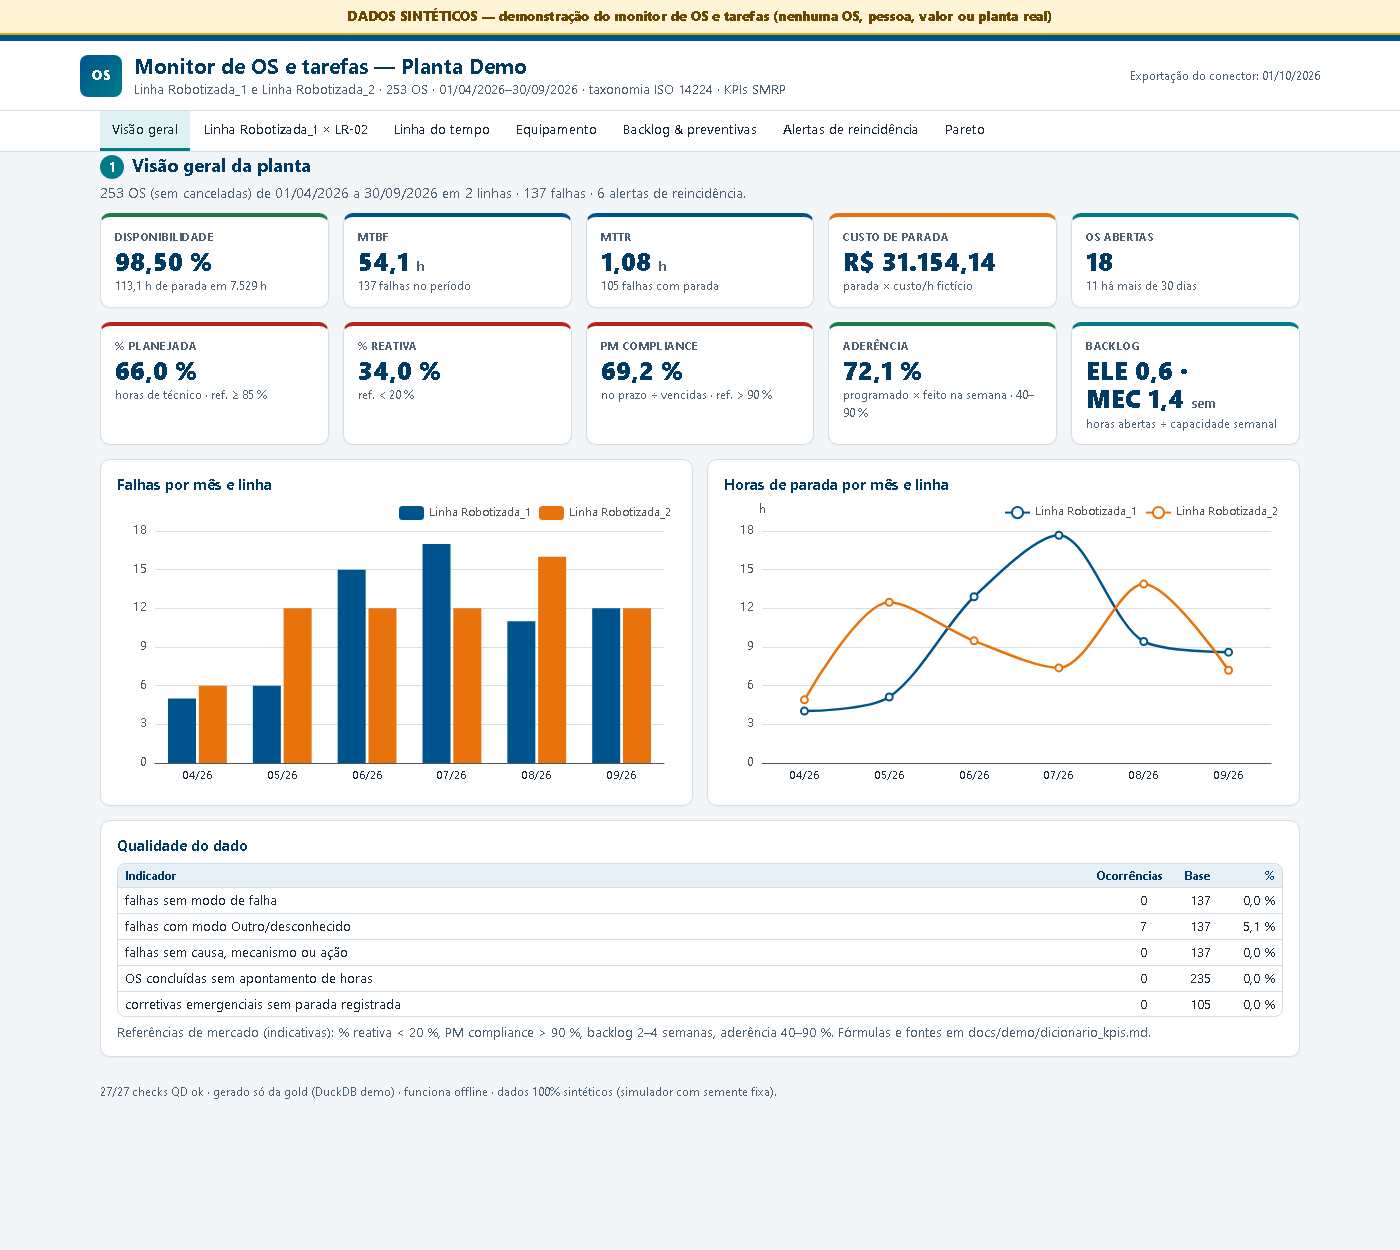
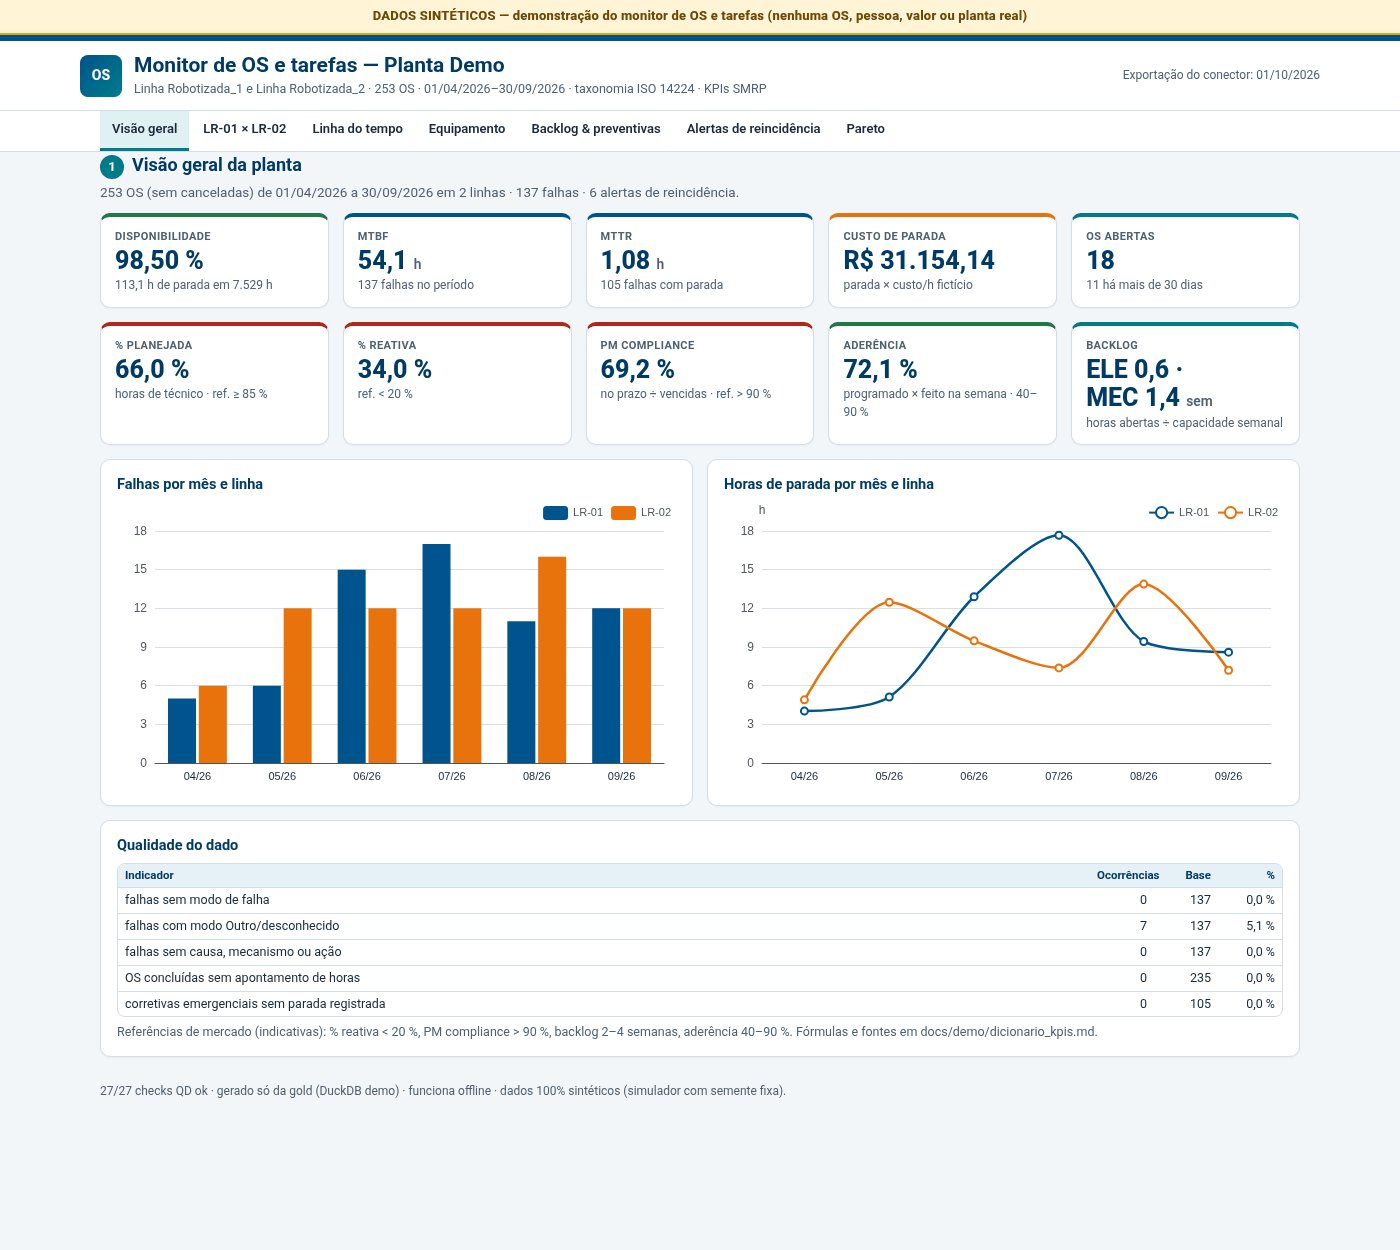
refactor: IGMI 0.3.3.1 - README, rotulos da comparacao e nomenclatura publica
Atualiza a documentacao para a versao corrente, unifica os rotulos da aba de comparacao em LR-01/LR-02 e substitui identificadores herdados do nome antigo por nomes do IGMI.

diff --git a/pmb/demo_template.html b/pmb/demo_template.html
@@ -120,7 +120,7 @@ footer{color:var(--muted);font-size:12px;padding:6px 0 28px}
 </section>
 
 <section id="linha" aria-labelledby="h-linha">
-  <h2 id="h-linha"><span class="n">2</span>Linha Robotizada_1 × Linha Robotizada_2</h2>
+  <h2 id="h-linha"><span class="n">2</span>LR-01 × LR-02</h2>
   <p class="lead">Mesmas fórmulas nas duas linhas; a planta é a soma das linhas (check QD19).</p>
   <div class="grid two">
     <div class="card"><div class="tw"><table id="tb-linhas" class="rt"></table></div></div>
@@ -206,7 +206,7 @@ function tbl(id, heads, rows){
 const kpiHtml = k => k.map(x=>'<div class="card kpi '+(x[3]||'')+'"><div class="lb">'+x[0]+'</div><div class="v">'+x[1]+'</div><div class="nt">'+x[2]+'</div></div>').join('');
 const meses = [...new Set(D.mensal.map(r=>r.mes))];
 const mesLab = m => m.slice(5)+'/'+m.slice(2,4);
-const serie = (campo, mult, tipo) => ['LR-01','LR-02'].map(l=>({name:EXIBIR[l],type:tipo||'line',barMaxWidth:28,smooth:tipo?false:.3,symbolSize:7,itemStyle:{color:LC[l]},lineStyle:{width:2.5},
+const serie = (campo, mult, tipo) => ['LR-01','LR-02'].map(l=>({name:l,type:tipo||'line',barMaxWidth:28,smooth:tipo?false:.3,symbolSize:7,itemStyle:{color:LC[l]},lineStyle:{width:2.5},
   data:meses.map(m=>{const r=D.mensal.find(x=>x.mes===m&&x.linha_id===l); return r&&r[campo]!=null?+(r[campo]*mult).toFixed(2):null;})}));
 const base = id => ({aria:{enabled:true},animation:false,tooltip:{trigger:'axis',confine:true},legend:{top:0,right:0,textStyle:{fontSize:11}},
   grid:narrow(id)?{left:38,right:12,top:30,bottom:28}:{left:50,right:20,top:32,bottom:30}});
@@ -239,7 +239,7 @@ function linha(){
   const ks=[['os_total','OS no período',v=>v],['falhas','Falhas',v=>v],['parada_h','Parada (h)',v=>nf1.format(v)],['disponibilidade','Disponibilidade',v=>fp(v,2)],
     ['mtbf_h','MTBF (h)',v=>nf1.format(v)],['mttr_h','MTTR (h)',v=>nf2.format(v)],['pct_planejada','% planejada',fp],['pct_reativa','% reativa',fp],
     ['pm_compliance','PM compliance',fp],['aderencia','Aderência',fp],['custo_parada','Custo de parada',fr],['os_abertas','OS abertas',v=>v],['os_envelhecidas','OS envelhecidas',v=>v]];
-  tbl('tb-linhas',[['Indicador',''],[EXIBIR['LR-01'],'c-b','num'],[EXIBIR['LR-02'],'c-b','num'],['Planta','c-b','num']],ks.map(([k,t,f])=>[t,f(L['LR-01'][k]),f(L['LR-02'][k]),f(L.PLANTA[k])]));
+  tbl('tb-linhas',[['Indicador',''],['LR-01','c-b','num'],['LR-02','c-b','num'],['Planta','c-b','num']],ks.map(([k,t,f])=>[t,f(L['LR-01'][k]),f(L['LR-02'][k]),f(L.PLANTA[k])]));
   const r=Object.assign(base('ch-reativa'),{xAxis:eixoMes,yAxis:{type:'value',max:100,axisLabel:{formatter:'{value}%'}},series:serie('pct_reativa',100)});
   r.series[0].markLine=metaLine(20,'ref. 20 %'); chart('ch-reativa').setOption(r,true);
   chart('ch-disp').setOption(Object.assign(base('ch-disp'),{xAxis:eixoMes,yAxis:{type:'value',min:96,max:100,axisLabel:{formatter:'{value}%'}},series:serie('disponibilidade',100)}),true);
@@ -287,7 +287,7 @@ function equipamento(){
   chart('ch-eq-mtbf').setOption({aria:{enabled:true},animation:false,legend:{top:0,right:0},grid:{left:48,right:24,top:30,bottom:36},
     tooltip:{trigger:'item',confine:true,formatter:p=>esc(p.data[2])+'<br>MTBF '+nf1.format(p.data[0])+' h · MTTR '+nf2.format(p.data[1])+' h'},
     xAxis:{type:'log',name:'MTBF h (log)',nameLocation:'middle',nameGap:24},yAxis:{type:'value',name:'MTTR h'},
-    series:['LR-01','LR-02'].map(l=>({name:EXIBIR[l],type:'scatter',symbolSize:13,itemStyle:{color:LC[l],borderColor:'#fff',borderWidth:1},data:eq.filter(e=>e.linha_id===l&&e.mtbf_h!=null).map(e=>[e.mtbf_h,e.mttr_h,e.nome])}))},true);
+    series:['LR-01','LR-02'].map(l=>({name:l,type:'scatter',symbolSize:13,itemStyle:{color:LC[l],borderColor:'#fff',borderWidth:1},data:eq.filter(e=>e.linha_id===l&&e.mtbf_h!=null).map(e=>[e.mtbf_h,e.mttr_h,e.nome])}))},true);
   tbl('tb-equip',[['Equipamento',''],['Linha','c-ln'],['Crit.','c-ln'],['Falhas','c-n','num'],['Parada (h)','c-n','num'],['MTBF (h)','c-h','num'],['MTTR (h)','c-n','num'],['Disponib.','c-h','num'],['Custo','c-b','num']],
     eq.map(e=>[esc(e.nome),e.linha_id,'<span class="pill '+(e.criticidade==='A'?'bad':e.criticidade==='B'?'val':'gray')+'">'+e.criticidade+'</span>',e.falhas,nf1.format(e.parada_h),e.mtbf_h==null?'—':nf1.format(e.mtbf_h),e.mttr_h==null?'—':nf2.format(e.mttr_h),fp(e.disponibilidade,2),fr(e.custo_parada)]));
   eqOS();
@@ -306,7 +306,7 @@ function backlog(){
     .concat([['PM compliance',fp(p.pm_compliance),'ref. > 90 %',p.pm_compliance>.9?'ok':'bad'],['Aderência',fp(p.aderencia),'faixa saudável 40–90 %','ok']]));
   const pmMes=[...new Set(D.pm.map(r=>r.mes))];
   const pm=Object.assign(base('ch-pm'),{xAxis:{type:'category',data:pmMes.map(mesLab)},yAxis:{type:'value',max:100,axisLabel:{formatter:'{value}%'}},
-    series:['LR-01','LR-02'].map(l=>({name:EXIBIR[l],type:'bar',barMaxWidth:24,itemStyle:{color:LC[l]},data:pmMes.map(m=>{const r=D.pm.find(x=>x.mes===m&&x.escopo===l);return r&&r.pm_compliance!=null?+(r.pm_compliance*100).toFixed(1):null;})}))});
+    series:['LR-01','LR-02'].map(l=>({name:l,type:'bar',barMaxWidth:24,itemStyle:{color:LC[l]},data:pmMes.map(m=>{const r=D.pm.find(x=>x.mes===m&&x.escopo===l);return r&&r.pm_compliance!=null?+(r.pm_compliance*100).toFixed(1):null;})}))});
   pm.series[0].markLine=metaLine(90,'ref. 90 %'); chart('ch-pm').setOption(pm,true);
   const ad=D.aderencia.filter(a=>a.escopo==='PLANTA');
   chart('ch-ader').setOption(Object.assign(base('ch-ader'),{legend:{show:false},xAxis:{type:'category',data:ad.map(a=>dmy(a.semana).slice(0,5)),axisLabel:{fontSize:10}},yAxis:{type:'value',max:100,axisLabel:{formatter:'{value}%'}},
@@ -351,9 +351,9 @@ function init(){
   $('hd-sub').textContent='Linha Robotizada_1 e Linha Robotizada_2 · '+D.os.length+' OS · '+dmy(P.periodo_inicio)+'–'+dmy(P.periodo_fim)+' · taxonomia ISO 14224 · KPIs SMRP';
   D.equip.forEach(e=>$('sel-eq').insertAdjacentHTML('beforeend','<option value="'+e.equipment_id+'">'+esc(e.nome)+'</option>'));
   $('sel-eq').addEventListener('change',eqOS);
-  seg('seg-tl-linha',[['LR-01',EXIBIR['LR-01']],['LR-02',EXIBIR['LR-02']]],'tl',timeline);
+  seg('seg-tl-linha',[['LR-01','LR-01'],['LR-02','LR-02']],'tl',timeline);
   seg('seg-tl-cor',[['tipo','Tipo de OS'],['modo','Modo de falha']],'cor',timeline);
-  seg('seg-par',[['PLANTA','Planta'],['LR-01',EXIBIR['LR-01']],['LR-02',EXIBIR['LR-02']]],'par',pareto);
+  seg('seg-par',[['PLANTA','Planta'],['LR-01','LR-01'],['LR-02','LR-02']],'par',pareto);
   /* modo "uma seção" (prints e TV): #so-<seção>[-LR-02] mostra só aquela seção */
   const h=location.hash.slice(1), m=h.match(/^so-([a-z]+)(?:-(LR-01|LR-02))?$/);
   if(m){ document.body.classList.add('so'); const s=$(m[1]); if(s) s.classList.add('on'); if(m[2]) st.tl=m[2];

diff --git a/pmb/preview.py b/pmb/preview.py
@@ -81,7 +81,7 @@ def gerar(con=None, out: Path | None = None) -> Path:
     return out
 
 
-TEMPLATE = """<!doctype html><html lang=pt-BR><head><meta charset=utf-8><title>P_Mobility_BI — prévia do dashboard</title>
+TEMPLATE = """<!doctype html><html lang=pt-BR><head><meta charset=utf-8><title>IGMI — prévia do dashboard</title>
 <style>
 body{{margin:0;font-family:"Segoe UI",Roboto,Helvetica,Arial,sans-serif;background:#f4f6f8;color:#1f2328}}
 .faixa{{background:#9a3412;color:#fff;font-weight:700;padding:12px 24px;font-size:15px;letter-spacing:.2px}}
@@ -104,7 +104,7 @@ table{{border-collapse:collapse;width:100%;background:#fff;border-radius:8px;ove
 footer{{color:#59636e;font-size:12px;padding:0 24px 18px}}
 </style></head><body>
 <div class=faixa id=faixa>{faixa}</div>
-<header><h1>P_Mobility_BI — camada gold</h1><small>data_carga do conector (sintético) {data_carga}</small></header>
+<header><h1>IGMI — camada gold</h1><small>data_carga do conector (sintético) {data_carga}</small></header>
 <nav><button data-aba=geral class=on>1 · Visão geral</button><button data-aba=maquina>2 · Máquina</button><button data-aba=linha>3 · Linha</button></nav>
 <main>
 <div class="aba on" id=aba-geral>

diff --git a/igmi/analista.py b/igmi/analista.py
@@ -1,6 +1,7 @@
 """Primeiro Analista de Confiabilidade: relatório determinístico e rastreável.
 
-Esta entrega ainda não faz nenhuma chamada a um modelo generativo.
+Este módulo calcula indicadores em Python, sem chamada a modelo de linguagem.
+A interpretação com IA é opcional no copiloto (`igmi-chat`) e em `igmi-ia`, com confirmação AUTORIZAR.
 """
 
 def analisar_confiabilidade(consultas, linha):
@@ -41,7 +42,7 @@ def analisar_confiabilidade(consultas, linha):
             'Dados exclusivamente sintéticos: não representam a planta real.',
             'KPIs agregados abrangem o período fechado do dataset, não uma janela móvel.',
             'As hipóteses não constituem diagnóstico de causa raiz.',
-            'Ainda não há modelo de IA, interface conversacional ou acesso a sistemas reais.',
+            'A interpretação com modelo de linguagem é opcional no copiloto (`igmi-chat`) e em `igmi-ia`, com confirmação AUTORIZAR, sobre o warehouse sintético local.',
             'Ordenação de equipamentos por horas de parada não recalcula a criticidade A/B/C.',
         ],
     }

diff --git a/tools/capturar_prints_terminal.py b/tools/capturar_prints_terminal.py
@@ -26,7 +26,7 @@ def arvore():
         d = tree
         for p in f.split("/"):
             d = d.setdefault(p, {})
-    out = ["p-mobility-bi/"]
+    out = ["IGMI/"]
 
     def walk(d, pre):
         ks = sorted(d, key=lambda k: (not d[k], k))
@@ -44,7 +44,7 @@ def main():
     caps = {"run_all.png": ("python run.py all", run("run.py", "all")),
             "run_parada.png": ("python run.py parada", run("run.py", "parada"))}
     pyt = run("-m", "pytest", "-p", "no:cacheprovider")
-    pyt = "\n".join("rootdir: p-mobility-bi" if l.startswith("rootdir:") else l for l in pyt.splitlines()) + "\n"
+    pyt = "\n".join("rootdir: IGMI" if l.startswith("rootdir:") else l for l in pyt.splitlines()) + "\n"
     caps["pytest.png"] = ("python run.py test", pyt)
     run("run.py", "clean")
     shutil.rmtree(ROOT / "export", ignore_errors=True)

diff --git a/tests_igmi/test_nomenclatura.py b/tests_igmi/test_nomenclatura.py
@@ -81,8 +81,13 @@ def test_referencias_ativas_nao_usam_ids_antigos():
 
 def test_dashboard_javascript_usa_chaves_entre_aspas_e_rotulos_publicos():
     html = (RAIZ / "pmb/demo_template.html").read_text(encoding="utf-8")
+    preview = (RAIZ / "pmb/demo_preview.py").read_text(encoding="utf-8")
     assert "const LC = {'LR-01':" in html
     assert "L['LR-01'][k]" in html
     assert "L['LR-02'][k]" in html
     assert "Linha Robotizada_1" in html and "Linha Robotizada_2" in html
     assert "e.equipment_id.split('-').slice(2).join('-')" in html
+    assert "LR-01 × LR-02" in html
+    assert '("linha", "LR-01 × LR-02")' in preview
+    assert "Linha Robotizada_1 × LR-02" not in html + preview
+    assert "Linha Robotizada_1 × Linha Robotizada_2" not in html

diff --git a/pmb/demo_preview.py b/pmb/demo_preview.py
@@ -15,7 +15,7 @@ OUT = config.ROOT / "export" / "demo_dashboard.html"
 ECHARTS = config.ROOT / "vendor" / "echarts" / "echarts.min.js"
 FAIXA = "DADOS SINTÉTICOS — demonstração do monitor de OS e tarefas (nenhuma OS, pessoa, valor ou planta real)"
 TEMPLATE = Path(__file__).with_name("demo_template.html")
-ABAS = [("geral", "Visão geral"), ("linha", "Linha Robotizada_1 × LR-02"), ("timeline", "Linha do tempo"), ("equipamento", "Equipamento"),
+ABAS = [("geral", "Visão geral"), ("linha", "LR-01 × LR-02"), ("timeline", "Linha do tempo"), ("equipamento", "Equipamento"),
         ("backlog", "Backlog & preventivas"), ("alertas", "Alertas de reincidência"), ("pareto", "Pareto")]
 
 

diff --git a/pmb/config.py b/pmb/config.py
@@ -11,7 +11,7 @@ CONTRATO = ROOT / "contrato"
 ENTRADA_CSV = Path(os.environ.get("PMB_ENTRADA_CSV", ROOT / "dados_sinteticos" / "entrada_csv"))
 RAW = Path(os.environ.get("PMB_RAW", ROOT / "raw"))
 LANDING_PARADA = Path(os.environ.get("PMB_LANDING_PARADA", ROOT / "landing_parada"))
-WAREHOUSE = Path(os.environ.get("PMB_WAREHOUSE", ROOT / "warehouse" / "p_mobility.duckdb"))
+WAREHOUSE = Path(os.environ.get("PMB_WAREHOUSE", ROOT / "warehouse" / "igmi.duckdb"))
 REPORT = ROOT / "data_quality_report.md"
 
 

diff --git a/pmb/simulador.py b/pmb/simulador.py
@@ -1,4 +1,4 @@
-"""Simulador DETERMINÍSTICO de OS de manutenção (dados 100% SINTÉTICOS) no schema do Mobility Data Connector.
+"""Simulador DETERMINÍSTICO de OS de manutenção (dados 100% SINTÉTICOS) no schema do conector de manutenção.
 
 Gera ~250 OS em ~6 meses para as linhas LR-01 e LR-02 (seeds/demo/): corretivas emergenciais e planejadas,
 preventivas e preditivas por plano (no prazo, atrasadas, vencidas), melhorias, backlog aberto e reincidências

diff --git a/igmi/__init__.py b/igmi/__init__.py
@@ -1,2 +1,2 @@
 """IGMI: inteligência analítica e assistência de manutenção industrial."""
-__version__ = "0.3.3"
+__version__ = "0.3.3.1"

diff --git a/README.md b/README.md
@@ -81,9 +81,7 @@ Tudo é **sintético** (simulador determinístico em `pmb/simulador.py`, semente
 
 Dashboard (`python run.py demo-preview` → `export/demo_dashboard.html`, um HTML offline com navegação fixa por seções, cards de KPI e layout de cartões no celular abaixo de 720 px):
 
-**Imagens da demonstração:** os screenshots da versão anterior não devem ser reutilizados, pois apresentam identificadores legados. Regere a demonstração e as capturas após a migração, conforme `docs/IGMI_0.3.3.md`. As imagens antigas devem ser removidas do Git antes da publicação.
-
-Prints de todas as seções em 1400 px e 390 px: `python tools/capturar_prints_demo.py <pasta>` (Chrome headless; `#so-<seção>` abre uma seção só).
+As capturas atuais do dashboard de demonstração, com as linhas **LR-01** e **LR-02**, estão em [`docs/img/`](docs/img/). Para gerá-las de novo (sem API): `python run.py simular demo demo-preview && python tools/capturar_prints_demo.py` (Chrome headless; `#so-<seção>` abre uma seção só). Prints de todas as seções em 1400 px e 390 px: `python tools/capturar_prints_demo.py <pasta>`.
 
 Documentação: [dicionário de KPIs (fórmulas e fontes)](docs/demo/dicionario_kpis.md) · [modelo de dados](docs/demo/modelo_dados.md) · [glossário](docs/demo/glossario.md) · [seeds](seeds/demo/LEIAME.md).
 
@@ -138,7 +136,7 @@ O copiloto não executa SQL criado pela IA nem altera ordens de serviço. A API 
 | 4 | Estados e alarmes do CLP/robô (OPC UA) para OEE e microparadas | futuro |
 | 5 | Reincidência por similaridade de texto; sugestão de modo/causa a partir do texto da OS (o técnico confirma); ajuste dos planos com MTBF real | futuro |
 
-## IGMI — Analista e Copiloto de Confiabilidade (0.3.2.1)
+## IGMI — Analista e Copiloto de Confiabilidade (0.3.3.1)
 
 O IGMI acrescenta à GOLD da demonstração uma camada de **consultas auditáveis, planejamento local de perguntas e IA opcional**, sem alterar os pipelines de dados. A identidade pública é **IGMI — Inteligência de Gestão da Manutenção Industrial**. O pacote interno legado `pmb/` é preservado por compatibilidade; não o renomeie sem testes e migração planejada.
 
@@ -226,7 +224,7 @@ Dados sintéticos -> RAW/SILVER/GOLD -> 27 verificações QD
                                             -> Terminal / Markdown
 ```
 
-Os arquivos `docs/IGMI_0.2.0.md`, `docs/IGMI_0.2.1.md`, `docs/IGMI_0.3.0.md`, `docs/IGMI_0.3.1.md`, `docs/IGMI_0.3.2.md` e **[IGMI 0.3.2.1](docs/IGMI_0.3.2.1.md)** documentam as entregas incrementais. `docs/igmi/PROMPT_MESTRE.md` registra a visão original do projeto.
+As entregas incrementais estão em [`docs/IGMI_0.2.0.md`](docs/IGMI_0.2.0.md), [`docs/IGMI_0.2.1.md`](docs/IGMI_0.2.1.md), [`docs/IGMI_0.3.0.md`](docs/IGMI_0.3.0.md), [`docs/IGMI_0.3.2.1.md`](docs/IGMI_0.3.2.1.md), [`docs/IGMI_0.3.3.md`](docs/IGMI_0.3.3.md) e **[IGMI 0.3.3.1](docs/IGMI_0.3.3.1.md)**. `docs/igmi/PROMPT_MESTRE.md` registra a visão original do projeto.
 
 ### Evolução e colaboração
 
@@ -237,8 +235,10 @@ Os arquivos `docs/IGMI_0.2.0.md`, `docs/IGMI_0.2.1.md`, `docs/IGMI_0.3.0.md`, `d
 | 0.2.1 | Formatação segura e baixo consumo de tokens | Validada em uso local |
 | 0.3.0 | Copiloto CLI offline/IA opcional | Validado em uso local |
 | 0.3.1 | Entrada multilinha e múltiplos equipamentos | Validada em uso local |
-| 0.3.2 | Planejamento de consultas e matriz de cobertura | Validada parcialmente; bloqueio da IA observado |
-| **0.3.2.1** | Disponibilidade, hipóteses, reincidências e README | **Patch preparado; validar no Windows antes de integrar à `main`** |
+| 0.3.2 | Planejamento de consultas e matriz de cobertura | Validada em uso local |
+| 0.3.2.1 | Disponibilidade, hipóteses, reincidências e README | Integrada à `main` |
+| 0.3.3 | Identificadores `LR-01` / `LR-02` e nomes de apresentação | Integrada à `main` |
+| **0.3.3.1** | README, rótulos da comparação e nomenclatura pública | Em revisão (este patch) |
 | Futuro | Interface web e outros agentes | Planejado |
 
 Desenvolva em branches `feature/…`, execute os testes e revise `git diff` antes de abrir Pull Request para `main`. Consulte o [CHANGELOG](CHANGELOG.md) para as alterações por versão.

diff --git a/docs/IGMI_0.3.3.1.md b/docs/IGMI_0.3.3.1.md
@@ -1,0 +1,32 @@
+# IGMI 0.3.3.1 — Documentação e nomenclatura pública
+
+Patch incremental sobre a 0.3.3, com a identidade pública **IGMI — Inteligência de Gestão da Manutenção Industrial** e as linhas sintéticas **LR-01** e **LR-02**.
+
+## Conteúdo desta entrega
+
+- README alinhado à versão atual: tabela de evolução até 0.3.3.1 e links para os guias que existem em `docs/` (`IGMI_0.2.0.md`, `IGMI_0.2.1.md`, `IGMI_0.3.0.md`, `IGMI_0.3.2.1.md`, `IGMI_0.3.3.md` e este arquivo).
+- Capturas do dashboard de demonstração em [`docs/img/`](img/), com os identificadores `LR-01` e `LR-02`. Regeneração (Chrome headless, sem API): `python run.py simular demo demo-preview && python tools/capturar_prints_demo.py`.
+- Aba de comparação do dashboard demo (`#linha`) no formato único `LR-01 × LR-02` na navegação, no título, nas colunas da tabela e nas legendas dos gráficos.
+- Prévia estática (`python run.py preview`) e prints de terminal com o nome IGMI; warehouse padrão do pipeline principal em `warehouse/igmi.duckdb` (sobrescrevível por `PMB_WAREHOUSE`).
+- Coluna `link` de `gold.fato_os` no contrato da gold, sem URL de fornecedor. O dashboard de prévia continua sem títulos, descrições ou links de OS.
+- O analista determinístico (`python run.py igmi`) calcula indicadores em Python. A interpretação com modelo de linguagem permanece opcional no copiloto (`igmi-chat`) e em `igmi-ia`, com confirmação literal `AUTORIZAR` e no máximo uma chamada por turno, sobre o warehouse sintético local.
+
+Os nomes de apresentação **Linha Robotizada_1** e **Linha Robotizada_2** continuam no cadastro sintético (`seeds/demo/`) e no subtítulo do dashboard. O pacote interno `pmb/` é preservado por compatibilidade.
+
+## Validação
+
+```bash
+source .venv/Scripts/activate   # no Windows / Git Bash
+export PYTHONUTF8=1
+export PYTHONIOENCODING=utf-8
+python -m pytest -q tests_igmi
+python run.py simular demo demo-preview
+python run.py test
+python run.py all
+```
+
+Essas chamadas não usam a API de IA paga. A suíte e o pipeline demo devem passar no mesmo ambiente da CI (Ubuntu e Windows, Python 3.11+).
+
+## Reversão
+
+Prefira `git revert` para manter o histórico, em vez de sobrescrever a `main`. Não envie `.env`, credenciais ou banco real ao GitHub.

diff --git a/docs/igmi/PROXIMOS_PASSOS.md b/docs/igmi/PROXIMOS_PASSOS.md
@@ -54,7 +54,7 @@ O dataset sintético atual representa **01/04/2026 a 30/09/2026**. A análise us
 
 **2. Testes adicionais e cobertura:** testar com banco realmente modificado (QD reprovado) e garantir bloqueio total. Conferir que nenhum valor da camada generativa poderá escapar do conjunto de ferramentas aprovadas.
 
-**3. Analista de Confiabilidade com LLM (opcional e posterior):** definir provedor, modelo, orçamento e autorização para uso dos dados; enviar apenas agregados e evidências mínimas das ferramentas; exigir resposta estruturada com citações aos registros e validação da qualidade. Nenhum dado real será enviado antes de controles, aprovação e política de dados.
+**3. Analista de Confiabilidade com modelo de linguagem (opcional):** o copiloto (`igmi-chat`) e o comando `igmi-ia` oferecem interpretação qualitativa sobre fatos calculados em Python, com confirmação `AUTORIZAR` e no máximo uma chamada por turno. O uso com dados reais permanece condicionado a controles, aprovação e política de dados.
 
 **4. API e dashboard:** integrar FastAPI com autenticação, permissões e rate limit; adicionar interface no dashboard sem remover a versão offline.
 
